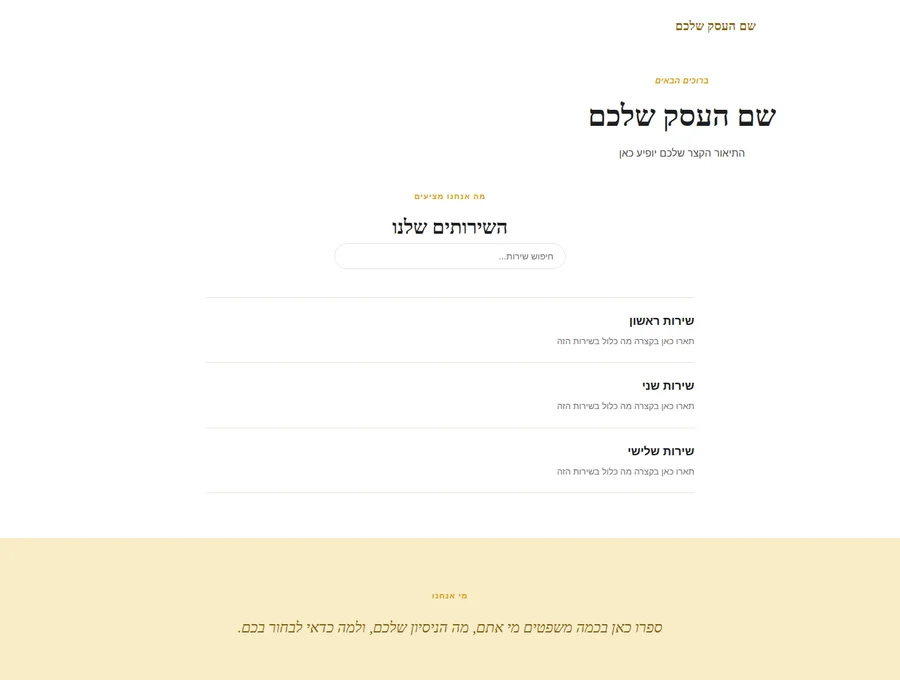
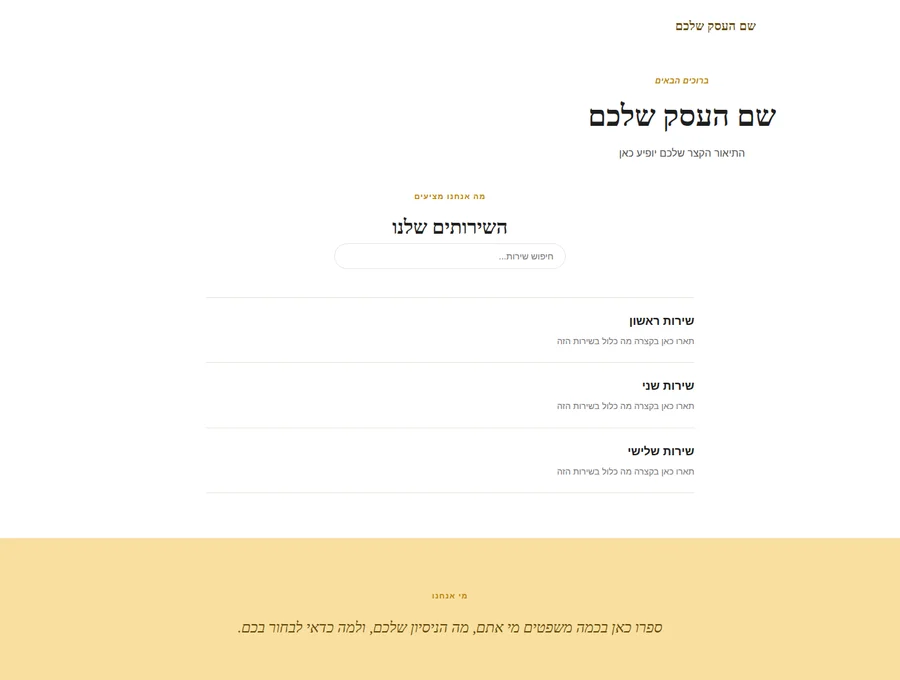
Recolor site templates by category instead of per-template
Per-template distinct colors meant two templates in the same category
(e.g. gallery and bold, both "עיצובי ויצירתי") looked unrelated, while
CV templates read as grouped by topic. Switched to one accent color
per category instead — same category always shares the same default
color, different categories stay visually distinct — and regenerated
the 11 preview thumbnails to match.

Claude-Session: https://claude.ai/code/session_0157gJphGVbeX9GSLjjRJNPV

Changed region(s): [[0.0, 0.7721, 1.0, 1.0]]

diff --git a/js/site-templates.js b/js/site-templates.js
@@ -483,7 +483,7 @@ function renderCatalogSite(d, page) {
 /* ---------- Template 4: modern gallery / editorial ---------- */
 function renderGallerySite(d, page) {
   page = page || "index";
-  const pal = derivePalette(d.primaryColor || "#1F2A44");
+  const pal = derivePalette(d.primaryColor || "#B5175A");
   const dd = withFallback(d);
   const wa = waLink(d.whatsapp || d.phone);
   const navLinksHtml = siteNavLinks(d, page);
@@ -695,7 +695,7 @@ function renderBoldSite(d, page) {
 /* ---------- Template 6: elegant split-hero (events / boutique) ---------- */
 function renderElegantSite(d, page) {
   page = page || "index";
-  const pal = derivePalette(d.primaryColor || "#D4A017");
+  const pal = derivePalette(d.primaryColor || "#B8860B");
   const dd = withFallback(d);
   const wa = waLink(d.whatsapp || d.phone);
   const navLinksHtml = siteNavLinks(d, page);
@@ -817,7 +817,7 @@ function renderElegantSite(d, page) {
 /* ---------- Template 7: process / how-we-work ---------- */
 function renderProcessSite(d, page) {
   page = page || "index";
-  const pal = derivePalette(d.primaryColor || "#0E7C86");
+  const pal = derivePalette(d.primaryColor || "#2563EB");
   const dd = withFallback(d);
   const wa = waLink(d.whatsapp || d.phone);
   const navLinksHtml = siteNavLinks(d, page);
@@ -928,7 +928,7 @@ function renderProcessSite(d, page) {
 /* ---------- Template 8: creative portfolio (personal) ---------- */
 function renderPortfolioSite(d, page) {
   page = page || "index";
-  const pal = derivePalette(d.primaryColor || "#2D6A4F");
+  const pal = derivePalette(d.primaryColor || "#7C3AED");
   const dd = withFallback(d);
   const wa = waLink(d.whatsapp || d.phone);
   const navLinksHtml = siteNavLinks(d, page);
@@ -1027,7 +1027,7 @@ function renderPortfolioSite(d, page) {
 /* ---------- Template 9: boutique shop with a featured item (shop) ---------- */
 function renderBoutiqueSite(d, page) {
   page = page || "index";
-  const pal = derivePalette(d.primaryColor || "#A0522D");
+  const pal = derivePalette(d.primaryColor || "#C2410C");
   const dd = withFallback(d);
   const wa = waLink(d.whatsapp || d.phone);
   const navLinksHtml = siteNavLinks(d, page);
@@ -1139,7 +1139,7 @@ function renderBoutiqueSite(d, page) {
 /* ---------- Template 10: dark luxury (events / boutique) ---------- */
 function renderNoirSite(d, page) {
   page = page || "index";
-  const pal = derivePalette(d.primaryColor || "#5C1F3D");
+  const pal = derivePalette(d.primaryColor || "#B8860B");
   const dd = withFallback(d);
   const wa = waLink(d.whatsapp || d.phone);
   const navLinksHtml = siteNavLinks(d, page);
@@ -1256,7 +1256,7 @@ function scrollRevealScript() {
 /* ---------- Template 11: creative studio (asymmetric split hero, dark) ---------- */
 function renderStudioSite(d, page) {
   page = page || "index";
-  const pal = derivePalette(d.primaryColor || "#0E9488");
+  const pal = derivePalette(d.primaryColor || "#B5175A");
   const dd = withFallback(d);
   const wa = waLink(d.whatsapp || d.phone);
   const navLinksHtml = siteNavLinks(d, page);
